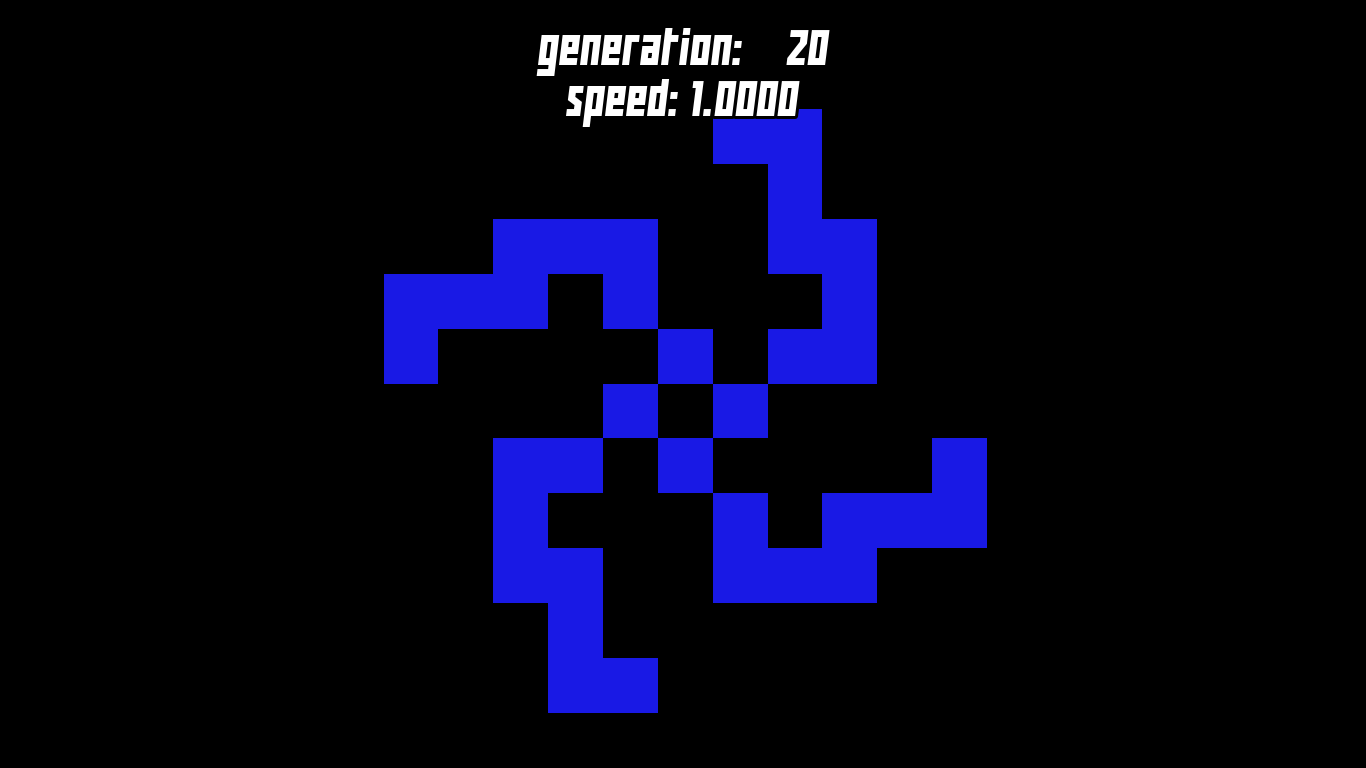
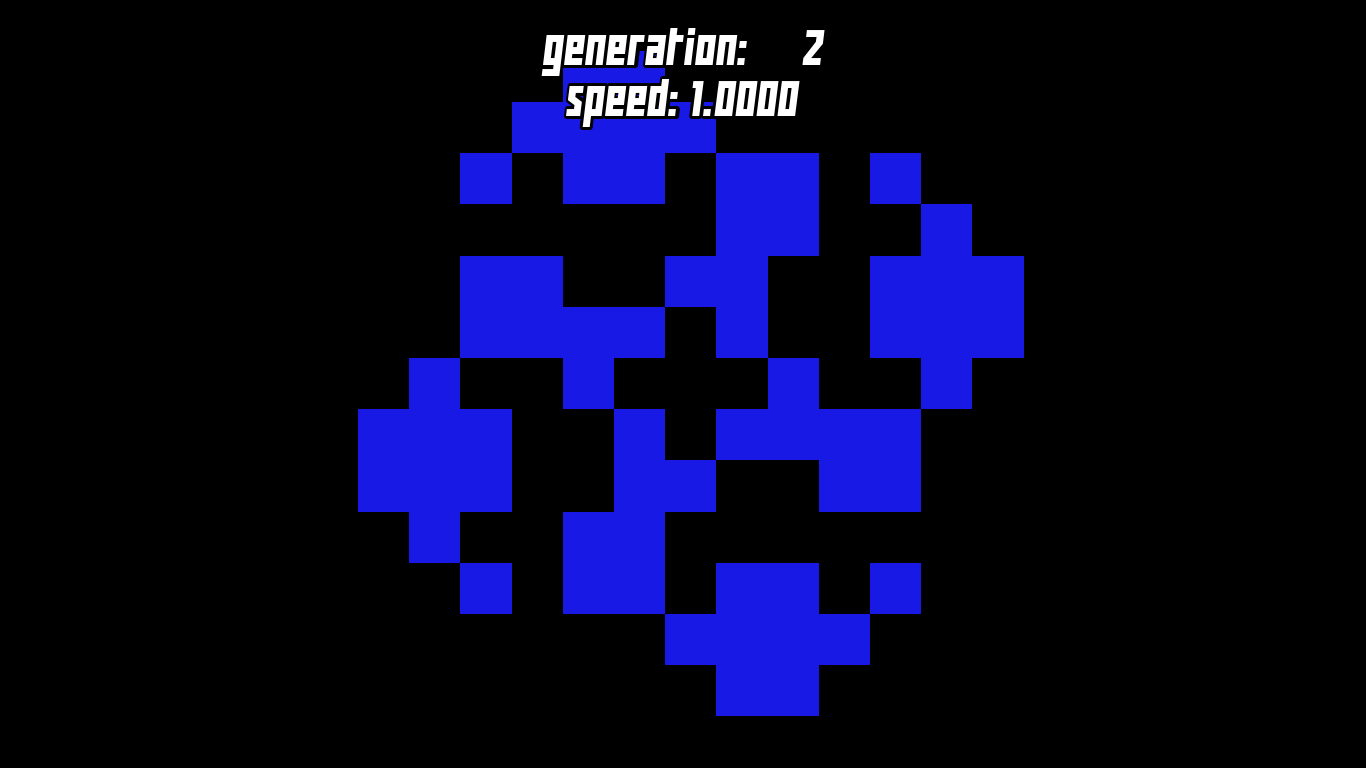
New screenshot

Changed region(s): [[0.246, 0.0312, 0.7687, 0.9375]]

diff --git a/cgol.c b/cgol.c
@@ -45,7 +45,7 @@ void CSDL_DrawCircle(SDL_Renderer* renderer, int x, int y, int r){
 //int boardWidth=25;
 //int boardHeight=14;
 
-const int boardHeight=14;
+const int boardHeight=15;
 const int boardWidth = boardHeight*((float)SCREEN_WIDTH/SCREEN_HEIGHT);
 void printBoard(int * board){
 	int i,j;
